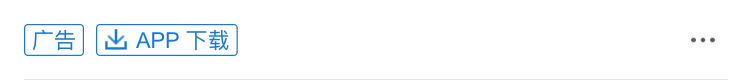
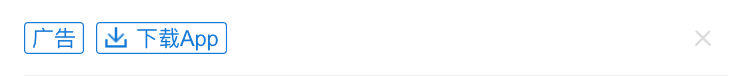
Update iphone qnews auto P

diff --git a/ptu/qnews.py b/ptu/qnews.py
@@ -306,6 +306,9 @@ class QnewsAutoImg(Base):
 
 
 class QnewsAutoImgBg(Base):
+    NORMAL = 'NORMAL'
+    DOWNLOAD = 'DOWNLOAD'
+
     def __init__(self, params):
         Base.__init__(self, params['time'], params['battery'], params['adImg'], params['adType'], params['network'],
                       params['title'], params['doc'], params['savePath'], params['conf'], params['basemap'])
@@ -322,16 +325,24 @@ class QnewsAutoImgBg(Base):
 
         if '10' == params['adCornerType']:
             self.ad_area_bottom = 'img_' + self.ad_type + '_area_bottom'
+            self.adCornerType = QnewsAutoImgBg.NORMAL
         elif '11' == params['adCornerType']:
             self.ad_area_bottom = 'img_' + self.ad_type + '_area_bottom_1'
+            self.adCornerType = QnewsAutoImgBg.DOWNLOAD
 
     def assembleFeedsBigAd(self):
         blank_height = self.config.getint('Qnews', 'feeds_big_blank_height')
         ad_size = self.parseArrStr(self.config.get('Qnews', 'feeds_big_ad_size'), ',')
         word_height = self.config.getint('Qnews', 'word_height')
         blank = cv2.imread(self.config.get('Qnews', 'img_blank'))
+        font = self.config.get('Qnews', 'font')
+        doc_size = self.config.getint('Qnews', 'doc_size')
+        doc_color = self.parseArrStr(self.config.get('Qnews', 'doc_color'), ',')
+        doc_pos = self.parseArrStr(self.config.get('Qnews', 'feeds_big_doc_pos'), ',')
 
-        doc_1stline_max_len = self.set1stDocLength(self.doc, 'Qnews',self.config)
+        check_pos = (self.screen_width + ad_size[0]) / 2
+        doc_1stline_max_len = self.find1stDoclen(font, self.doc, doc_size, (doc_pos[0], 0), check_pos)
+
         # set ad backgroud
         if len(self.doc) <= doc_1stline_max_len:
             bkg = cv2.resize(blank, (self.screen_width, blank_height))
@@ -347,19 +358,18 @@ class QnewsAutoImgBg(Base):
         # Add ad
         ad = cv2.imread(self.img_paste_ad)
         ad = cv2.resize(ad, (ad_size[0], ad_size[1]))
+        cv2.imwrite('tmp_img/tmp.png', ad)
+        ad_corder_path = self.circle_corder_image('tmp_img/tmp.png', 5)
         ad_top_y = blank_height - bottom_height - ad_size[1]
         ad_left_x = (self.screen_width - ad_size[0]) / 2
-        bkg[ad_top_y:ad_top_y + ad_size[1], ad_left_x:ad_left_x + ad_size[0]] = ad
+        bkg = self.warterMarkPos(bkg, cv2.imread(ad_corder_path, cv2.IMREAD_UNCHANGED), (ad_left_x, ad_top_y),
+                                 (ad_left_x + ad_size[0], ad_top_y + ad_size[1]))
+        
         cv2.imwrite('tmp_img/tmp.png', bkg)
 
         # Print doc and desc in the bkg
-        font = self.config.get('Qnews', 'font')
-        doc_size = self.config.getint('Qnews', 'doc_size')
-        doc_color = self.parseArrStr(self.config.get('Qnews', 'doc_color'), ',')
-        doc_pos = self.parseArrStr(self.config.get('Qnews', 'feeds_big_doc_pos'), ',')
-        doc_1stline_max_len = self.set1stDocLength(self.doc, 'Qnews', self.config)
         return self.drawText('tmp_img/tmp.png', font, self.doc, doc_size, doc_color, doc_pos, doc_1stline_max_len,
-                             word_height)
+                             word_height), blank_height
 
     def assembleFeedsSmallAd(self):
         blank_height = self.config.getint('Qnews', 'feeds_small_blank_height')
@@ -367,6 +377,13 @@ class QnewsAutoImgBg(Base):
         ad_pos = self.parseArrStr(self.config.get('Qnews', 'feeds_small_ad_pos'), ',')
         word_height = self.config.getint('Qnews', 'word_height')
         blank = cv2.imread(self.config.get('Qnews', 'img_blank'))
+        font = self.config.get('Qnews', 'font')
+        doc_size = self.config.getint('Qnews', 'doc_size')
+        doc_color = self.parseArrStr(self.config.get('Qnews', 'doc_color'), ',')
+        doc_pos = self.parseArrStr(self.config.get('Qnews', 'feeds_small_doc_pos'), ',')
+
+        check_pos = self.config.getint('Qnews', 'feeds_small_doc_1stline_check_x')
+        doc_1stline_max_len = self.find1stDoclen(font, self.doc, doc_size, (doc_pos[0], 0), check_pos)
 
         bkg = cv2.resize(blank, (self.screen_width, blank_height))
 
@@ -378,26 +395,35 @@ class QnewsAutoImgBg(Base):
         # Add ad
         ad = cv2.imread(self.img_paste_ad)
         ad = cv2.resize(ad, (ad_size[0], ad_size[1]))
-        bkg[ad_pos[1]:ad_pos[1] + ad_size[1], ad_pos[0]:ad_pos[0] + ad_size[0]] = ad
+        cv2.imwrite('tmp_img/tmp.png', ad)
+        ad_corder_path = self.circle_corder_image('tmp_img/tmp.png', 5)
+        bkg = self.warterMarkPos(bkg, cv2.imread(ad_corder_path, cv2.IMREAD_UNCHANGED), (ad_pos[0], ad_pos[1]),
+                                 (ad_pos[0]+ ad_size[0], ad_pos[1]+ ad_size[1]))
         cv2.imwrite('tmp_img/tmp.png', bkg)
 
         # Print doc and desc in the bkg
-        font = self.config.get('Qnews', 'font')
-        doc_size = self.config.getint('Qnews', 'doc_size')
-        doc_color = self.parseArrStr(self.config.get('Qnews', 'doc_color'), ',')
-        doc_pos = self.parseArrStr(self.config.get('Qnews', 'feeds_small_doc_pos'), ',')
-        doc_1stline_max_len = self.set1stDocLength(self.doc, 'Qnews', self.config, d1len='feeds_small_doc_1stline_px_len')
         return self.drawText('tmp_img/tmp.png', font, self.doc, doc_size, doc_color, doc_pos, doc_1stline_max_len,
-                             word_height)
+                             word_height), blank_height
 
     def assembleFeedsMultiAd(self):
-        blank_height = self.config.getint('Qnews', 'feeds_multi_blank_height')
-        ad_size = self.parseArrStr(self.config.get('Qnews', 'feeds_multi_ad_size'), ',')
+        sec_blank_height = 'feeds_multi_blank_height'
+        sec_ad_size = 'feeds_multi_ad_size'
+        if QnewsAutoImgBg.DOWNLOAD == self.adCornerType:
+            sec_blank_height = 'feeds_multi_blank_height_1'
+            sec_ad_size = 'feeds_multi_ad_size_1'
+        blank_height = self.config.getint('Qnews', sec_blank_height)
+        ad_size = self.parseArrStr(self.config.get('Qnews', sec_ad_size), ',')
         multi_ad_width = self.config.getint('Qnews', 'feeds_multi_ad_width')
         word_height = self.config.getint('Qnews', 'word_height')
         blank = cv2.imread(self.config.get('Qnews', 'img_blank'))
+        font = self.config.get('Qnews', 'font')
+        doc_size = self.config.getint('Qnews', 'doc_size')
+        doc_color = self.parseArrStr(self.config.get('Qnews', 'doc_color'), ',')
+        doc_pos = self.parseArrStr(self.config.get('Qnews', 'feeds_multi_doc_pos'), ',')
 
-        doc_1stline_max_len = self.set1stDocLength(self.doc, 'Qnews', self.config)
+        check_pos = (self.screen_width + multi_ad_width) / 2
+        doc_1stline_max_len = self.find1stDoclen(font, self.doc, doc_size, (doc_pos[0], 0), check_pos)
+
         # set ad backgroud
         if len(self.doc) <= doc_1stline_max_len:
             bkg = cv2.resize(blank, (self.screen_width, blank_height))
@@ -416,49 +442,45 @@ class QnewsAutoImgBg(Base):
         ad_top_y = blank_height - bottom_height - ad_size[1]
         ad_left_x = (self.screen_width - multi_ad_width) / 2
         ad_space_between = (multi_ad_width - 3 * ad_size[0]) / 2
-        for i in range(0, len(img_ads)):
-            bkg[ad_top_y:ad_top_y + ad_size[1], ad_left_x:ad_left_x + ad_size[0]] \
-                = cv2.resize(cv2.imread(img_ads[i]), (ad_size[0], ad_size[1]))
-            ad_left_x += ad_size[0]+ad_space_between
+
+        cv2.imwrite('tmp_img/tmp.png', cv2.resize(cv2.imread(img_ads[0]), (ad_size[0], ad_size[1])))
+        ad_corder_path = self.circle_corder_image('tmp_img/tmp.png', 5)
+        bkg = self.warterMarkPos(bkg, cv2.imread(ad_corder_path, cv2.IMREAD_UNCHANGED), (ad_left_x, ad_top_y),
+                                 (ad_left_x + ad_size[0], ad_top_y + ad_size[1]))
+        cv2.imwrite('tmp_img/tmp.png', cv2.resize(cv2.imread(img_ads[1]), (ad_size[0], ad_size[1])))
+        ad_corder_path = self.circle_corder_image('tmp_img/tmp.png', 5)
+        bkg = self.warterMarkPos(bkg, cv2.imread(ad_corder_path, cv2.IMREAD_UNCHANGED),
+                                 (ad_left_x + ad_size[0] + ad_space_between, ad_top_y),
+                                 (ad_left_x + 2 * ad_size[0] + ad_space_between, ad_top_y + ad_size[1]))
+        cv2.imwrite('tmp_img/tmp.png', cv2.resize(cv2.imread(img_ads[2]), (ad_size[0], ad_size[1])))
+        ad_corder_path = self.circle_corder_image('tmp_img/tmp.png', 5)
+        bkg = self.warterMarkPos(bkg, cv2.imread(ad_corder_path, cv2.IMREAD_UNCHANGED),
+                                 (ad_left_x + 2 * ad_size[0] + 2 * ad_space_between, ad_top_y),
+                                 (ad_left_x + 3 * ad_size[0] + 2 * ad_space_between, ad_top_y + ad_size[1]))
         cv2.imwrite('tmp_img/tmp.png', bkg)
 
         # Print doc and desc in the bkg
-        font = self.config.get('Qnews', 'font')
-        doc_size = self.config.getint('Qnews', 'doc_size')
-        doc_color = self.parseArrStr(self.config.get('Qnews', 'doc_color'), ',')
-        doc_pos = self.parseArrStr(self.config.get('Qnews', 'feeds_multi_doc_pos'), ',')
-        doc_1stline_max_len = self.set1stDocLength(self.doc, 'Qnews', self.config)
         return self.drawText('tmp_img/tmp.png', font, self.doc, doc_size, doc_color, doc_pos, doc_1stline_max_len,
-                             word_height)
+                             word_height), blank_height
 
     def assembleFeedsAd(self):
         if "feeds_big" == self.ad_type:
-            ad = self.assembleFeedsBigAd()
+            ad, bh = self.assembleFeedsBigAd()
         elif "feeds_small" == self.ad_type:
-            ad = self.assembleFeedsSmallAd()
+            ad, bh = self.assembleFeedsSmallAd()
         elif "feeds_multi" == self.ad_type:
-            ad = self.assembleFeedsMultiAd()
+            ad, bh = self.assembleFeedsMultiAd()
         else:
             ad = None
-        return ad
-
-
-    def getFeedsBlankHeight(self):
-        key = self.ad_type + "_blank_height"
-        blank_height = self.config.getint('Qnews', key)
-        if len(self.doc) > self.set1stDocLength(self.doc, 'Qnews', self.config) and "feeds_small" != self.ad_type:
-            blank_height = blank_height + self.config.getint('Qnews', 'word_height')
-
-        return blank_height
-
+            bh = 0
+        return ad, bh
 
     def feedsStart(self):
-        blank_height = self.getFeedsBlankHeight()
+        ad, blank_height = self.assembleFeedsAd()
         bottom_height = self.config.getint('Qnews', 'feeds_bottom_height')
         # The ad area should be >= the biggest feeds ad height(its doc is two line) and app bottom
         top_left, bottom_right = self.findFeedsAreaInBg(self.background, self.img_split, self.fp_split, blank_height,
                                                         bottom_height)
-        ad = self.assembleFeedsAd()
 
         img_color = cv2.imread(self.background)
         bottom_y = self.screen_height - bottom_height
@@ -468,7 +490,7 @@ class QnewsAutoImgBg(Base):
         img_color[bottom_right[1]:bottom_right[1] + blank_height, 0:self.screen_width] = ad
 
         #Add header image
-        ok, img_color = self.updateHeader(img_color, "", self.time, self.battery, self.network, self.config, 'header')
+        #ok, img_color = self.updateHeader(img_color, "", self.time, self.battery, self.network, self.config, 'header')
 
         cv2.imwrite(self.composite_ads_path, img_color)
 
